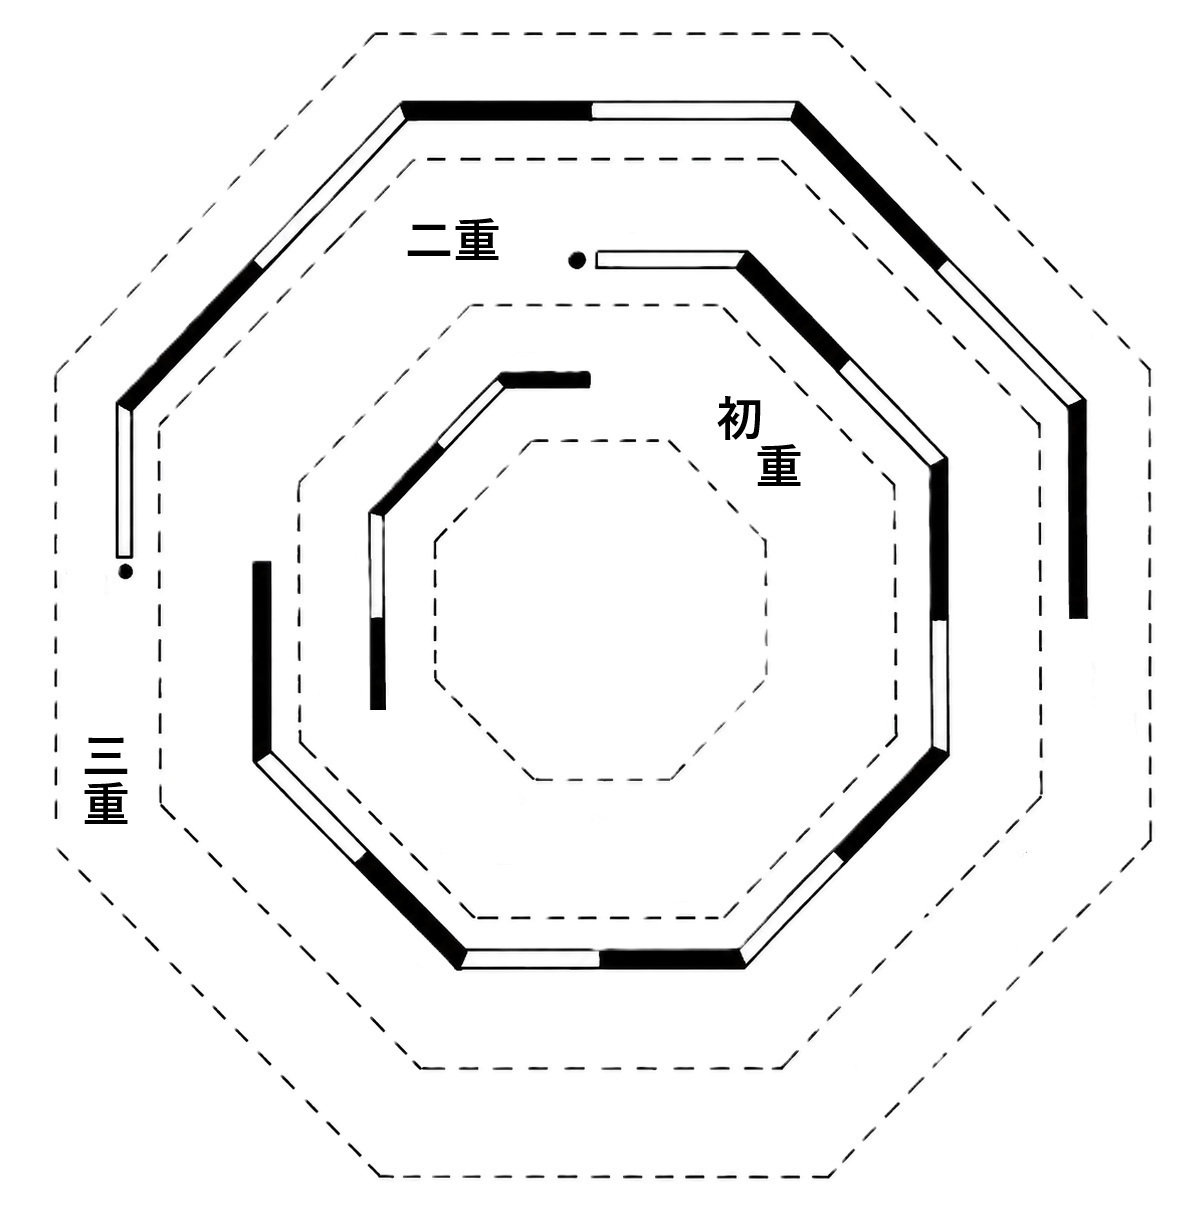
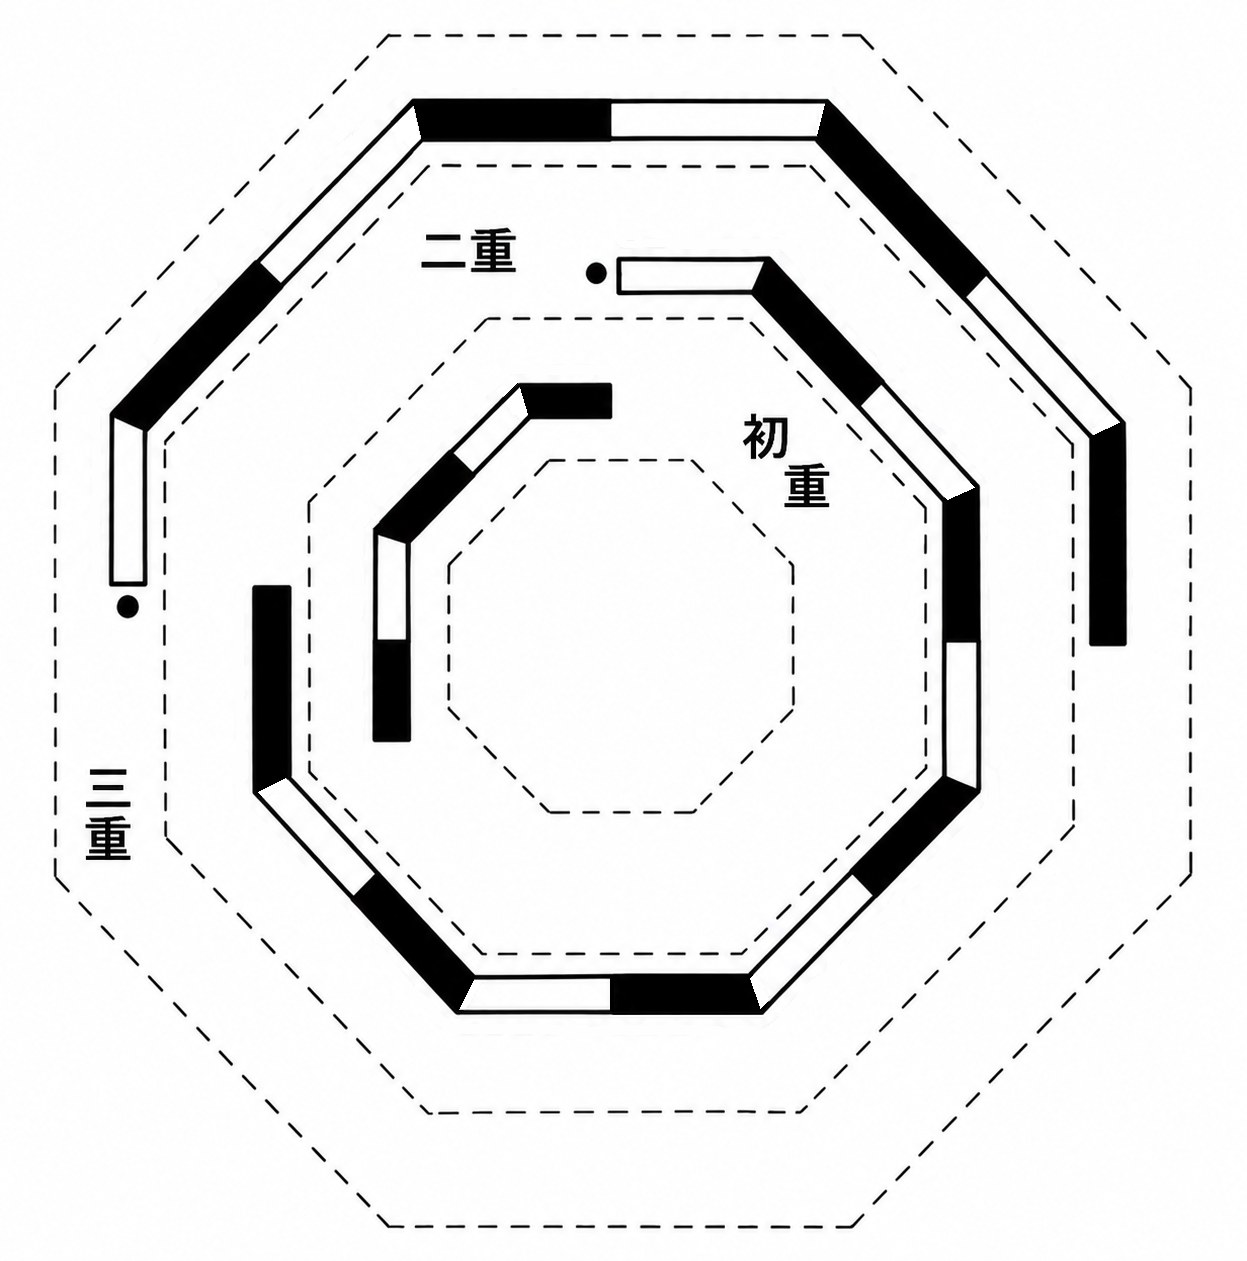
音符画像差し替え/AGENTS.md追加

diff --git a/sw.js b/sw.js
@@ -49,7 +49,7 @@
 // ====================================================
 
 const CACHE_NAME =
-  "v1.0.27";
+  "v1.0.28";
 
 
 

diff --git a/AGENTS.md b/AGENTS.md
@@ -1,0 +1,3 @@
+# 作業ルール
+
+.html、.css、.js、などの拡張子がつくソースファイルに変更があった場合は、必ずキャッシュ名も更新すること。
